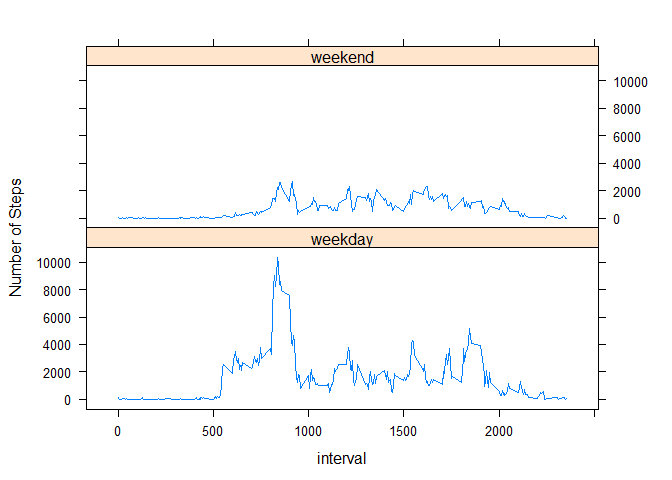
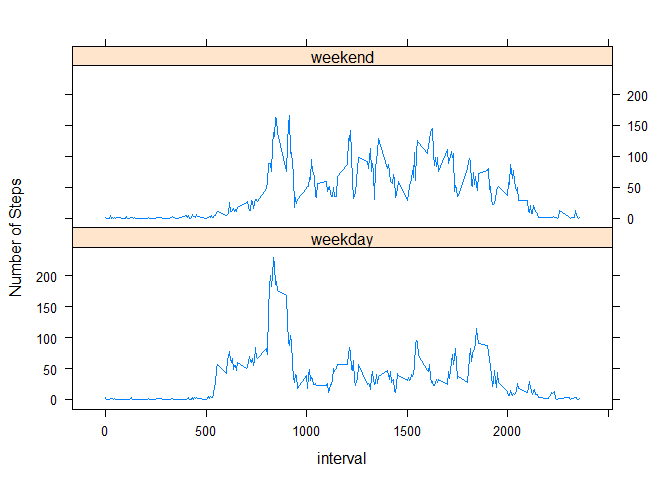
Fixed last graph

diff --git a/PA1_template.html b/PA1_template.html
@@ -152,13 +152,13 @@ parse[weekend]&lt;-&quot;weekend&quot;
 newActivity&lt;-cbind(newActivity,parse)
 names(newActivity)[4]&lt;-&quot;Weekday&quot;</code></pre>
 <p>With this new information we aggregate in order to obtain the average number of steps taken by interval, across all weekdays and across all weekend days:</p>
-<pre class="r"><code>newActiInter&lt;-aggregate(newActivity$steps,by=list(interval=newActivity$interval,weekday=newActivity$Weekday),sum)
+<pre class="r"><code>newActiInter&lt;-aggregate(newActivity$steps,by=list(interval=newActivity$interval,weekday=newActivity$Weekday),mean)
 names(newActiInter)[3]&lt;-&quot;steps&quot;</code></pre>
 <ol start="2" style="list-style-type: decimal">
 <li>Next we make a panel plot differentiating between weekday and weekend data:</li>
 </ol>
 <pre class="r"><code>xyplot(steps~interval|weekday,newActiInter,type=&quot;l&quot;,layout=c(1,2),ylab=&quot;Number of Steps&quot;)</code></pre>
[2 lines of base64/hex data omitted]
 </div>
 
 

diff --git a/PA1_template.md b/PA1_template.md
@@ -156,7 +156,7 @@ names(newActivity)[4]<-"Weekday"
 With this new information we aggregate in order to obtain the average number of steps taken by interval, across all weekdays and across all weekend days:
 
 ```r
-newActiInter<-aggregate(newActivity$steps,by=list(interval=newActivity$interval,weekday=newActivity$Weekday),sum)
+newActiInter<-aggregate(newActivity$steps,by=list(interval=newActivity$interval,weekday=newActivity$Weekday),mean)
 names(newActiInter)[3]<-"steps"
 ```
 
